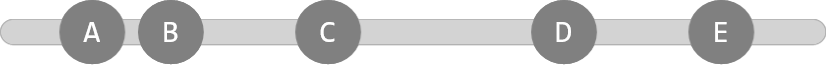
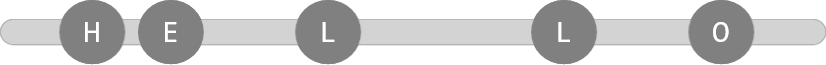
Added "Converter operators" section

diff --git a/RxSamples/MainPage.xaml.cs b/RxSamples/MainPage.xaml.cs
@@ -1,6 +1,9 @@
 using System;
 using System.Reactive.Linq;
+using System.Reactive.Threading.Tasks;
+using System.Threading.Tasks;
 using Windows.UI.Xaml.Controls;
+using Windows.UI.Xaml.Input;
 
 // The Blank Page item template is documented at http://go.microsoft.com/fwlink/?LinkId=402352&clcid=0x409
 
@@ -90,6 +93,49 @@ namespace RxSamples
         private void ToObservable()
         {
             var source = new[] { "A", "B", "C", "D", "E", "F", "G", "H", "I", "J" }.ToObservable();
+        }
+
+        private async Task SomeAsyncOperation()
+        {
+            // Simulating random execution time    
+            var random = new Random();
+            await Task.Delay(random.Next(300));
+
+            // Simulating failure         
+            if (random.Next(100) < 10)
+                throw new Exception("Error!");
+        }
+
+        private void FromAsync_GoodExample()
+        {
+            var goodExample = Observable.FromAsync(SomeAsyncOperation);
+        }
+
+        private void FromAsync_BadExample()
+        {
+            var badExample = SomeAsyncOperation().ToObservable();
+        }
+        
+        private void FromEventPattern()
+        {
+            var source = Observable.FromEventPattern<KeyRoutedEventArgs>(this, nameof(this.KeyDown));
+        }
+
+        public event Action<string, int, double> MySpecialEvent;
+        private void FromEvent()
+        {
+            var source = Observable.FromEvent<Action<string, int, double>, Tuple<string, int, double>>(
+                rxOnNext => (s, i, d) => rxOnNext(Tuple.Create(s, i, d)),
+                eventHandler => MySpecialEvent += eventHandler, 
+                eventHandler => MySpecialEvent -= eventHandler);
+        }
+
+        public event Action<string> MyOneParameterEvent;
+        private void FromEvent_OneParameter()
+        {
+            var source = Observable.FromEvent<string>(
+                eventHandler => MyOneParameterEvent += eventHandler,
+                eventHandler => MyOneParameterEvent -= eventHandler);
         }
     }
 }

diff --git a/TimelineGenerator/TimeLineDrawings.cs b/TimelineGenerator/TimeLineDrawings.cs
@@ -144,11 +144,11 @@ namespace TimelineGenerator
         public async Task FromEvent()
         {
             this.timelineDrawer.DrawTimeLine(1);
-            this.timelineDrawer.AddEventToTimeLine(0, 100, "A");
-            this.timelineDrawer.AddEventToTimeLine(0, 200, "B");
-            this.timelineDrawer.AddEventToTimeLine(0, 400, "C");
-            this.timelineDrawer.AddEventToTimeLine(0, 700, "D");
-            this.timelineDrawer.AddEventToTimeLine(0, 900, "E");
+            this.timelineDrawer.AddEventToTimeLine(0, 100, "H");
+            this.timelineDrawer.AddEventToTimeLine(0, 200, "E");
+            this.timelineDrawer.AddEventToTimeLine(0, 400, "L");
+            this.timelineDrawer.AddEventToTimeLine(0, 700, "L");
+            this.timelineDrawer.AddEventToTimeLine(0, 900, "O");
         }
 
         public async Task FromAsync()

diff --git a/Draft.md b/Draft.md
@@ -1046,7 +1046,13 @@ var source = Observable.Timer(TimeSpan.FromSeconds(5), TimeSpan.FromSeconds(1));
 
 ### Converter operators
 
+Even though you learned a couple of ways to construct "observable primitives", in reality it's more likely that you will want to convert some kind of existing data source to an observable stream. This data source can be an existing collection, an asynchronous operation represented by a `Task` object, an `event`, etc.
+
 #### ToObservable
+
+Two very common scenarios are collections and `Task` objects. For these you can just use the `ToObservable()` extension method to turn them into an observable stream.
+
+If you have some kind of `IEnumerable` datasource, you can just call the extension method on it and turn it into an `IObservable` stream.
 
 ```csharp 
 // Code Sample 3-14
@@ -1057,6 +1063,9 @@ var sourceFromEnumerable = new[] { "A", "B", "C", "D", "E", "F", "G", "H", "I", 
 
 ![](Marble%20Diagrams/ToObservable.png)
 
+Also if you have a `Task` object, you can just call the extension method to turn it into a stream.</br>
+Even though the extension method is present and you are free to use it and in some cases it's perfectly fine to use it, I would personally suggest to use the `FromAsync` operator, because it comes with a few important behaviour differences compared to the `ToObservable` operator.
+
 ```csharp
 // Code Sample 3-15
 // Using the ToObservable extension method on a Task
@@ -1064,17 +1073,73 @@ var sourceFromEnumerable = new[] { "A", "B", "C", "D", "E", "F", "G", "H", "I", 
 var sourceFromTask = Task.FromResult("A").ToObservable();
 ```
 
-![](Marble%20Diagrams/Return.png)
-
-#### FromEvent
-
-#### FromEventPattern
-
-![](Marble%20Diagrams/FromEvent.png)
+![](Marble%20Diagrams/FromAsync.png)
 
 #### FromAsync
 
+If you have an asynchronous operation that is represented by a `Task`, you should use the `FromAsync()` operator to convert it to an observable stream. The reason for that is 2 words: lazy evaulation. 
+
+The `ToObservable()` operator can only act on an existing `Task` object. If you have some kind of retry logic defined in your stream description, in case of using the `ToObservable()` operator, it will always go back to the same `Task` object and query it's state. There is no way to somehow rerun the function that produced that `Task`.
+
+But if you use the `FromAsync()` operator that wraps the function itself that produces the `Task`, if you re-subscribe (for example because of a failure), it will actually re-execute the function, producding a new `Task` with that, so at least you have the chance to recover from a transient error.
+
+```csharp
+// Code Sample 3-16
+// Using the FromAsync operator
+
+var goodExample = Observable.FromAsync(SomeAsyncOperation);
+```
+
 ![](Marble%20Diagrams/FromAsync.png)
+
+#### FromEventPattern
+
+An other good candidate to convert to Rx stream is the .NET event.
+
+Most cases when you have to deal with events they have a typical signature that looks something like `(object sender, EventArgs args)`. As long as the event follows this signature, you can use a simplified way to convert these events to observables, like this:
+
+```csharp
+var source = Observable.FromEventPattern<KeyRoutedEventArgs>(this, nameof(this.KeyDown));
+```
+
+You can choose not to specify any generic type parameter in which case it will default to the most generic `(object, EventArgs)` combination. 
+
+You can choose to specify only the actual type of the `args` parameter (as you can see in the example above), or to explicitly specify both the type of the `sender` and the `args` parameters.
+
+![](Marble%20Diagrams/FromEvent.png)
+
+#### FromEvent
+
+In case you have an event that doesn't follow this pattern, your life will be slightly more complicated.
+
+Let's assume you have an event like this:
+
+``` csharp
+public event Action<string, int, double> MySpecialEvent;
+```
+
+In this case your converter operator will look like this:
+
+```csharp
+var source = Observable.FromEvent<Action<string, int, double>, Tuple<string, int, double>>(
+    rxOnNext => (s, i, d) => rxOnNext(Tuple.Create(s, i, d)),
+    eventHandler => MySpecialEvent += eventHandler, 
+    eventHandler => MySpecialEvent -= eventHandler);
+```
+
+So let's see what is happening here.
+
+First of all, you have to be able to call the `FromEvent` operator, which requires 2 generic type parameters, the type of the event and the type of the event arguments. The second one is necessary because in the world of events when an event happens, a subscribed method gets called potentially with many parameters, but in Rx world when an event happens, a new object is placed into the stream. So you have to wrap the received parameters into one object.
+
+`void MySpecialEventHandler(string s, int i, double d)` VS `Tuple<string, int, double>`
+
+Let's see the method parameters. After providing the type of the `event` and the type of the `args`, Rx internally prepares and exposes an `OnNext<TArgs>` method to push new elements into the stream. So here's what's happening:
+
+The operator gives a reference to this `OnNext` function to you, and expects you to return a method that matches the signature of the original event, so it can be used as an event handler, and because it has a reference to the `OnNext` method, it should do the conversion from the method parameters to the `Tuple` object and push it into the stream.
+
+Once you got your head around this rather complicated line, the last 2 parameters of the method are fairly simple, you just get a reference to the event handler (prepared by the system) that you have to subscribe to and unsubscribe from the original `event`.
+
+It's worth mentioning that this example is the worst case scenario. If your event doesn't have any parameters or only has one, you don't have to bother with this cimplicated conversion logic, you just have to provide the subscribe / unsubscribe functions.
 
 ### Hot and Cold observables
 
